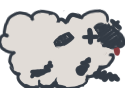
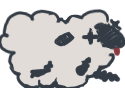
add: sheep does not feel good after fall

diff --git a/src/pet.py b/src/pet.py
@@ -132,15 +132,18 @@ class Pet(pygame.sprite.Sprite):
         self.state = "fall"
         self.idle_until = 0
         self.sleep_until = 0
+        self.next_state = ""
+        self.action_timer = 0
 
         # gravity 
         self.vy = 0
         self.gravity = 0.2
         self.drag_offset = pygame.Vector2()
 
-        self.pee_timer = 0
-
-        self.next_state = ""
+        # misc 
+        self.fall_height = self.rect.bottom
+        self.hurt_height = 300
+        
 
     def update(self, platforms):
         if self.state ==  "drag": # drag has highest priority
@@ -150,8 +153,8 @@ class Pet(pygame.sprite.Sprite):
             self.crash(platforms)
             return
 
-        elif not (self.has_support(platforms))[0]:
-            self.state = "fall"
+        elif self.state != "fall" and not (self.has_support(platforms))[0]:
+            self.start_fall()
         
         if self.state == "fall":
             self.fall(platforms)
@@ -169,6 +172,8 @@ class Pet(pygame.sprite.Sprite):
             self.turn()
         elif self.state == "pee":
             self.pee()
+        elif self.state == "ouch":
+            self.ouch()
 
     def idle(self):
         self.animate("idle", 20)
@@ -181,7 +186,7 @@ class Pet(pygame.sprite.Sprite):
                 next_state = "lay"
             elif random.random() < 0.06:
                 self.frame = 0
-                self.pee_timer = pygame.time.get_ticks() + random.randint(3000, 8000)
+                self.action_timer = pygame.time.get_ticks() + random.randint(3000, 8000)
                 self.state = "pee"
                 return
             else: 
@@ -203,7 +208,11 @@ class Pet(pygame.sprite.Sprite):
         support_check = self.has_support(platforms)
         if support_check[0]:
                 self.rect.bottom = support_check[1]
-                self.set_idle(300,5000)
+                if self.rect.bottom - self.fall_height >= self.hurt_height:
+                    self.action_timer = pygame.time.get_ticks() + random.randint(1000, 2000)
+                    self.state = "ouch"
+                else:    
+                    self.set_idle(300,5000)
                 return
         
     def drag(self):
@@ -348,13 +357,18 @@ class Pet(pygame.sprite.Sprite):
 
     def pee(self):
         if self.frame == 8:
-            if self.pee_timer < pygame.time.get_ticks():
+            if self.action_timer < pygame.time.get_ticks():
                 self.animate("pee", 15)
         else:
             self.animate("pee", 15)
             if self.frame == len(self.pee_right) - 1:
                 self.set_idle(300, 10000)
-        
+    
+    def ouch(self):
+        self.animate("ouch", 20)
+        if self.action_timer <= pygame.time.get_ticks():
+            self.set_idle(300,10000)
+
     def handle_event(self,event):
         if event.type == pygame.MOUSEBUTTONDOWN and event.button == 1:
             if self.rect.collidepoint(event.pos):
@@ -366,7 +380,7 @@ class Pet(pygame.sprite.Sprite):
                 pygame.event.set_grab(True)
         elif event.type == pygame.MOUSEBUTTONUP and event.button == 1:
             if self.state == "drag":
-                self.state = "fall"
+                self.start_fall()
                 pygame.event.set_grab(False)
         elif event.type == pygame.MOUSEBUTTONDOWN and event.button == 3:
              if self.rect.collidepoint(event.pos):
@@ -464,3 +478,7 @@ class Pet(pygame.sprite.Sprite):
             self.walk_speed = abs(self.walk_speed) * self.direction
             self.knockback_x = abs(self.knockback_x) * self.direction
             self.acc = abs(self.acc) * self.direction
+
+    def start_fall(self):
+        self.fall_height = self.rect.bottom
+        self.state = "fall"
